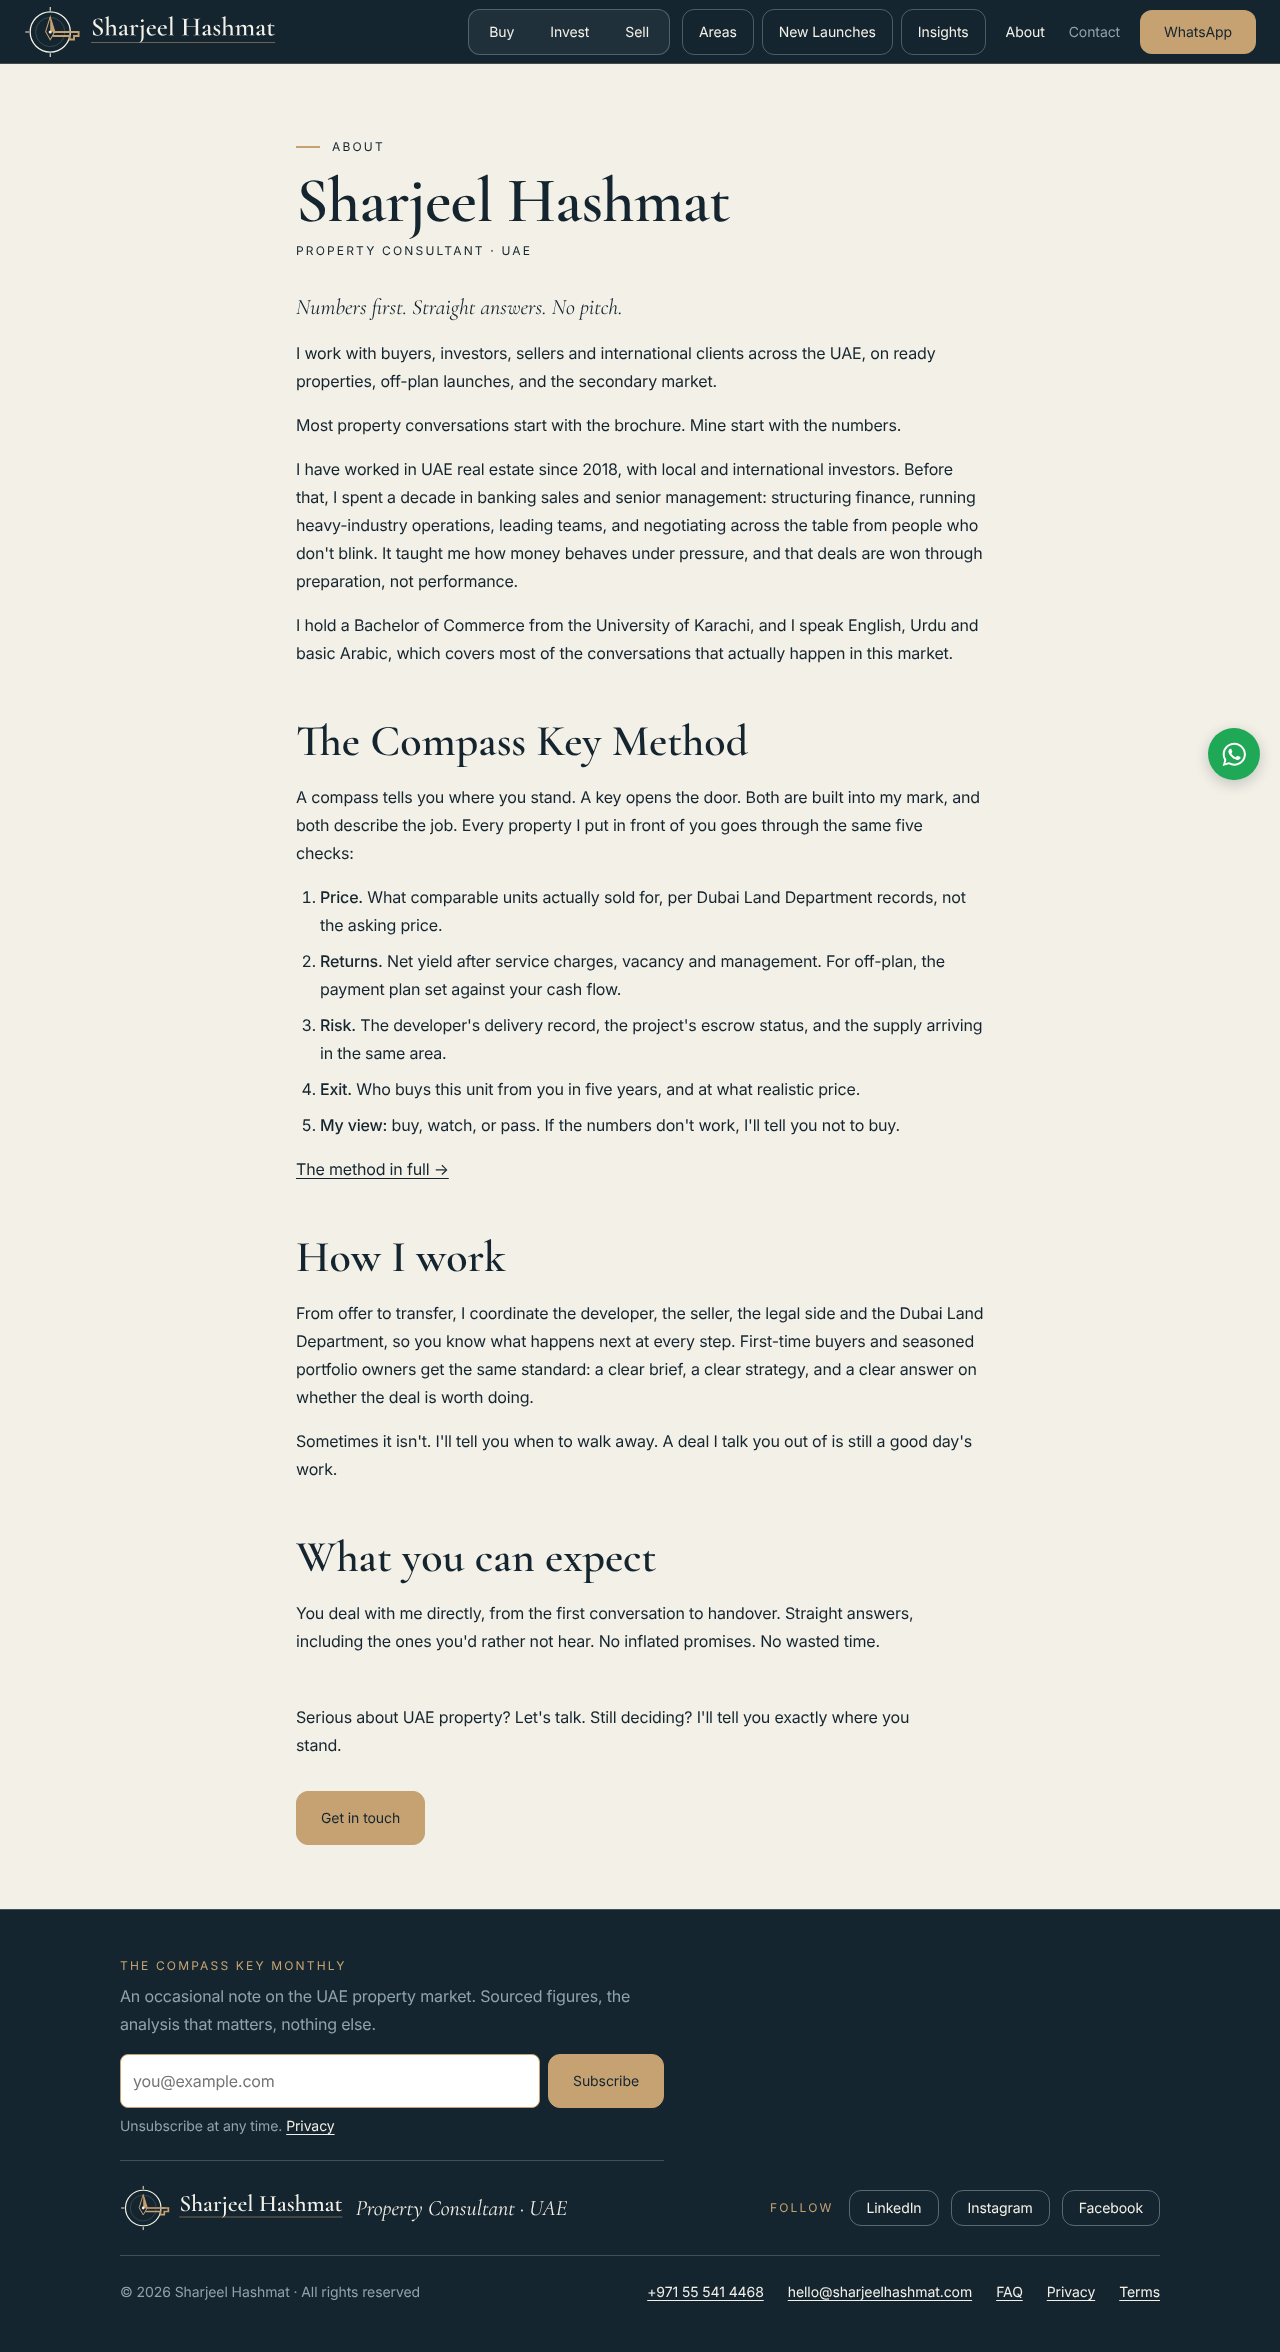
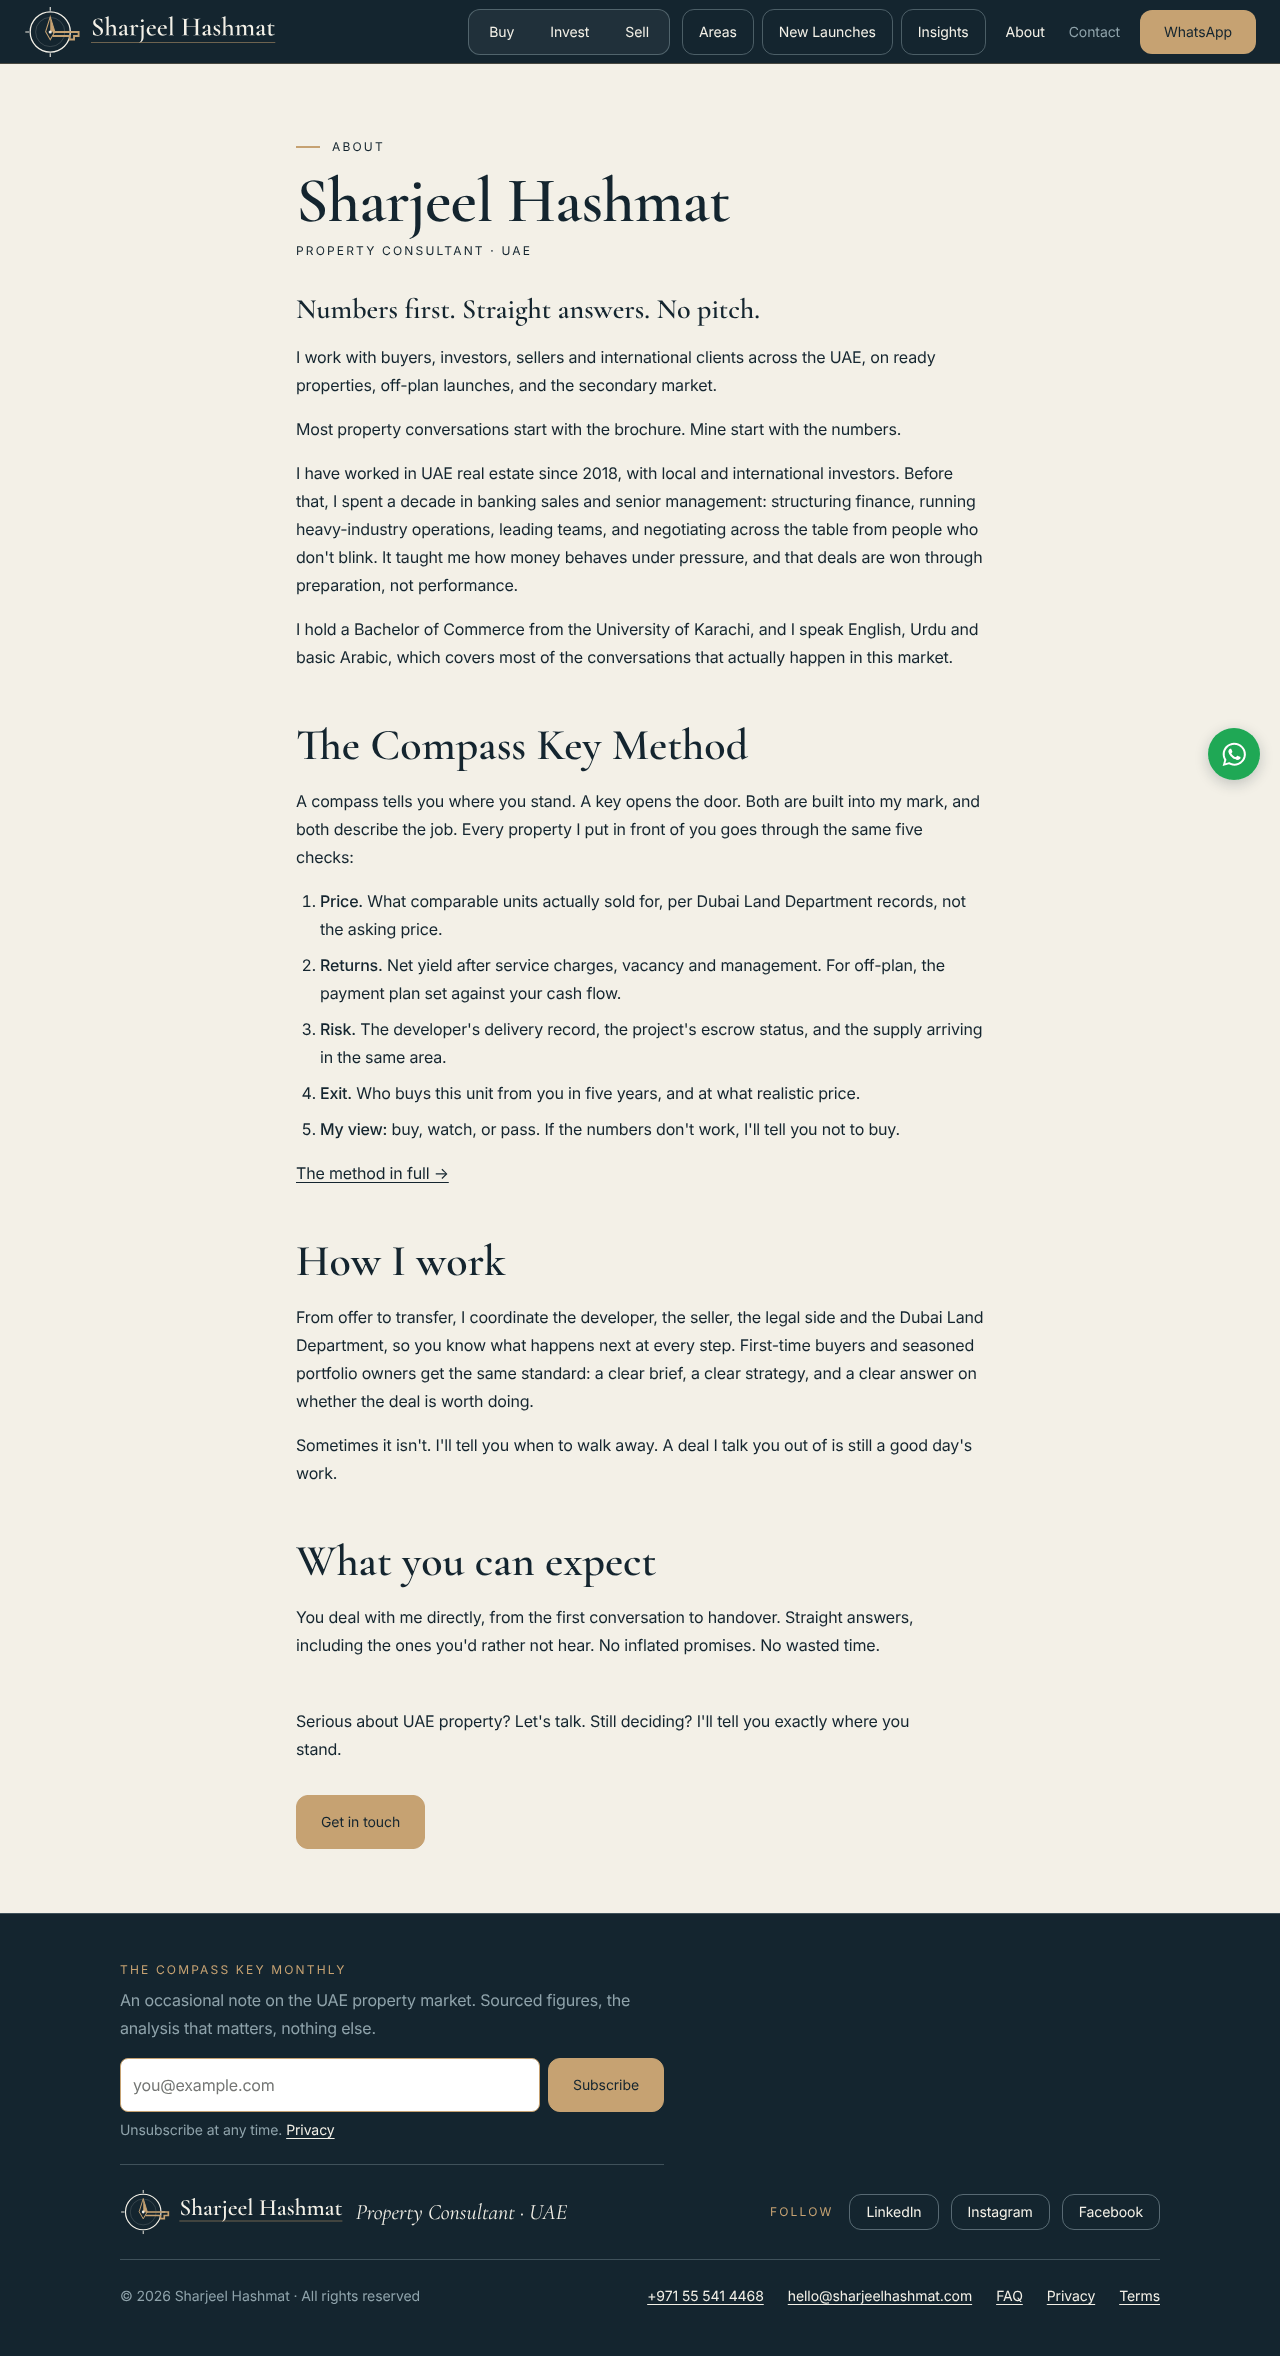
fix(5): About lead line upright heading, FAQ questions in the data style
Owner approved 2026-11-05:
- The About lead line is the heading style, upright: Cormorant Garamond
  600, 28/36, the nearest v5.8 step to the upright 24 to 32px display
  line approved on 2026-10-10 (was the Cormorant Italic tagline style).
- The FAQ questions use the data style like the other Inter subheads:
  Inter 500, 16/24, -0.011em (were Cormorant 600, 28/36). The "+"
  marker stays Inter 400; the answers are unchanged.

No copy, colour, spacing, corner or layout change. The after/
screenshots of /about and /faq at 375 and 1280, both contact sheets and
the PR 5 README (decisions 3 and 7, the FAQ row, the selector list) are
updated.

Claude-Session: https://claude.ai/code/session_015pNCMiVbL4vyVLmpNHZybw

diff --git a/site/src/styles/global.css b/site/src/styles/global.css
@@ -381,7 +381,7 @@ form.card { padding: var(--space-8); }
 .faq details { border-bottom: 1px solid var(--line); }
 .faq summary {
   list-style: none; cursor: pointer; display: flex; justify-content: space-between; align-items: center; gap: var(--space-6);
-  padding: var(--space-6) 0; font-family: var(--serif); font-weight: 600; font-size: var(--fs-heading); line-height: var(--lh-heading); letter-spacing: 0; color: var(--navy-deep);
+  padding: var(--space-6) 0; font-family: var(--sans); font-weight: 500; font-size: var(--fs-data); line-height: var(--lh-data); letter-spacing: var(--ls-data); color: var(--navy-deep);
 }
 .faq summary::-webkit-details-marker { display: none; }
 .faq summary::after { content: '+'; font-family: var(--sans); font-size: var(--fs-body); line-height: var(--lh-body); letter-spacing: var(--ls-body); font-weight: 400; color: var(--brass-deep); flex: none; transition: transform .15s; }

diff --git a/site/docs/screenshots/pr5/README.md b/site/docs/screenshots/pr5/README.md
@@ -14,8 +14,9 @@ Visual COPY HOLD: no copy, colour, logo, brand file or legal text changed. Every
 2. **Type roles.** Text in capitals maps to label (Inter 400, 12/16, 0.18em). Other Inter text below 16px maps to small
    (14/20) whatever its size, so sentences are never set in capitals. Text at about 15 to 18px maps to body (16/28).
    Tables are data (16/24, Inter 500) with their headers as labels (400). `strong` and `b` are 500.
-3. **Inter subheads** (`.prose h3`, the card titles on /invest) keep Inter and take the data style (16/24, 500) rather
-   than becoming Cormorant, so they stay below the 28px H2s.
+3. **Inter subheads** (`.prose h3`, the card titles on /invest, and the FAQ questions, owner approved 2026-11-05) use
+   the data style (Inter 500, 16/24, -0.011em) rather than Cormorant, so they stay below the 28px H2s. The FAQ "+"
+   marker stays Inter 400.
 4. **Big figures** are Inter 500, lining and tabular. Stat (48/52) where the figure is short and has room: `.way-num`,
    the /areas year-to-date tiles and the area guide figure. Data (16/24) where it cannot fit at 320px or has no upper
    bound: the two-column top-area cards (`.mk-card .mk-value`), the ROI calculator outputs (`.stat`, amounts the visitor
@@ -30,9 +31,10 @@ Visual COPY HOLD: no copy, colour, logo, brand file or legal text changed. Every
    the floating WhatsApp button. `--radius-xl` is defined; nothing in the site is a large panel, image, hero block or
    modal with corners today. The permit QR image (hidden until go-live) is `--radius-sm`: 24px would clip its finder
    patterns.
-7. **Taglines.** The About lead line ("Numbers first. Straight answers. No pitch.") and the footer title beside the
-   logo are the tagline style (Cormorant Italic 400, 22/32). The About line was the owner-approved 24 to 32px Cormorant
-   display line of 2026-10-10; under v5.8 Cormorant normal starts at 28px and the line reads as a tagline.
+7. **About lead line and footer title.** The About lead line ("Numbers first. Straight answers. No pitch.") is the
+   heading style, upright: Cormorant Garamond 600, 28/36 (owner approved 2026-11-05), the nearest v5.8 step to the
+   upright 24 to 32px Cormorant display line the owner approved on 2026-10-10. The footer title beside the logo is the
+   tagline style (Cormorant Italic 400, 22/32).
 8. **Scrollable tables** (`.table-scroll`) take `tabindex="0"` so a keyboard can scroll them (axe
    scrollable-region-focusable; the insight figures table now scrolls at 375px, and already did at 320px on the base).
 
@@ -42,7 +44,7 @@ Visual COPY HOLD: no copy, colour, logo, brand file or legal text changed. Every
 |---|---|---|
 | `.brand` (header lockup) | Cormorant 1.35rem (21.6px); the header shows only the logo | no font set; the header has no brand text |
 | `.site-footer .brand` text "Property Consultant · UAE" | Cormorant 1.05rem (16.8px) | tagline: Cormorant Italic 400, 22/32 |
-| `.faq summary` (the questions) | Cormorant 600, 1.35rem (21.6px) | heading: Cormorant 600, 28/36 |
+| `.faq summary` (the questions) | Cormorant 600, 1.35rem (21.6px) | data: Inter 500, 16/24, -0.011em (owner approved 2026-11-05) |
 | `.print-head` (print only) | Cormorant 600, 1.15rem (18.4px) | Inter 400, body 16/28 |
 | `.mk-area` (/areas top-area names) | Cormorant 1.3rem (20.8px), 1.1rem (17.6px) below 30rem | heading: Cormorant 600, 28/36 at every width |
 
@@ -143,7 +145,7 @@ button-like options` (`--radius-md`).
 | `styles/global.css` | `:root` | `--lh-small` | `(none)` | `1.25rem` |
 | `styles/global.css` | `:root` | `--ls-small` | `(none)` | `-0.006em` |
 
-## Every selector whose value changed (673 declarations)
+## Every selector whose value changed (674 declarations)
 
 From a declaration-by-declaration diff of site/src (stylesheets, <style> blocks and style attributes) against phase2-site. (none) means the property was added or removed.
 
@@ -217,9 +219,9 @@ From a declaration-by-declaration diff of site/src (stylesheets, <style> blocks 
 | `components/ROICalc.astro` | `p (#2)` | `margin-top` | `1.5rem` | `var(--space-6)` |
 | `components/ROICalc.astro` | `a` | `margin-top` | `1.25rem` | `var(--space-6)` |
 | `pages/about.astro` | `.about .lede` | `margin-top` | `2rem` | `var(--space-8)` |
-| `pages/about.astro` | `.about .about-lead` | `font-size` | `clamp(1.5rem, 1.2rem + 1.5vw, 2rem)` | `var(--fs-tagline)` |
-| `pages/about.astro` | `.about .about-lead` | `line-height` | `1.2` | `var(--lh-tagline)` |
-| `pages/about.astro` | `.about .about-lead` | `font-style` | `(none)` | `italic` |
+| `pages/about.astro` | `.about .about-lead` | `font-weight` | `400` | `600` |
+| `pages/about.astro` | `.about .about-lead` | `font-size` | `clamp(1.5rem, 1.2rem + 1.5vw, 2rem)` | `var(--fs-heading)` |
+| `pages/about.astro` | `.about .about-lead` | `line-height` | `1.2` | `var(--lh-heading)` |
 | `pages/about.astro` | `.about .about-lead` | `letter-spacing` | `(none)` | `0` |
 | `pages/about.astro` | `.about-h2` | `margin-top` | `3rem` | `var(--space-12)` |
 | `pages/about.astro` | `.about-checks` | `margin` | `1rem 0 0` | `var(--space-4) 0 0` |
@@ -634,10 +636,11 @@ From a declaration-by-declaration diff of site/src (stylesheets, <style> blocks 
 | `styles/global.css` | `.faq` | `margin-top` | `2rem` | `var(--space-8)` |
 | `styles/global.css` | `.faq summary` | `gap` | `1.5rem` | `var(--space-6)` |
 | `styles/global.css` | `.faq summary` | `padding` | `1.25rem 0` | `var(--space-6) 0` |
-| `styles/global.css` | `.faq summary` | `font-size` | `1.35rem` | `var(--fs-heading)` |
-| `styles/global.css` | `.faq summary` | `line-height` | `1.3` | `var(--lh-heading)` |
-| `styles/global.css` | `.faq summary` | `font-weight` | `(none)` | `600` |
-| `styles/global.css` | `.faq summary` | `letter-spacing` | `(none)` | `0` |
+| `styles/global.css` | `.faq summary` | `font-family` | `var(--serif)` | `var(--sans)` |
+| `styles/global.css` | `.faq summary` | `font-size` | `1.35rem` | `var(--fs-data)` |
+| `styles/global.css` | `.faq summary` | `line-height` | `1.3` | `var(--lh-data)` |
+| `styles/global.css` | `.faq summary` | `font-weight` | `(none)` | `500` |
+| `styles/global.css` | `.faq summary` | `letter-spacing` | `(none)` | `var(--ls-data)` |
 | `styles/global.css` | `.faq summary::after` | `font-size` | `1.4rem` | `var(--fs-body)` |
 | `styles/global.css` | `.faq summary::after` | `font-weight` | `300` | `400` |
 | `styles/global.css` | `.faq summary::after` | `line-height` | `(none)` | `var(--lh-body)` |
